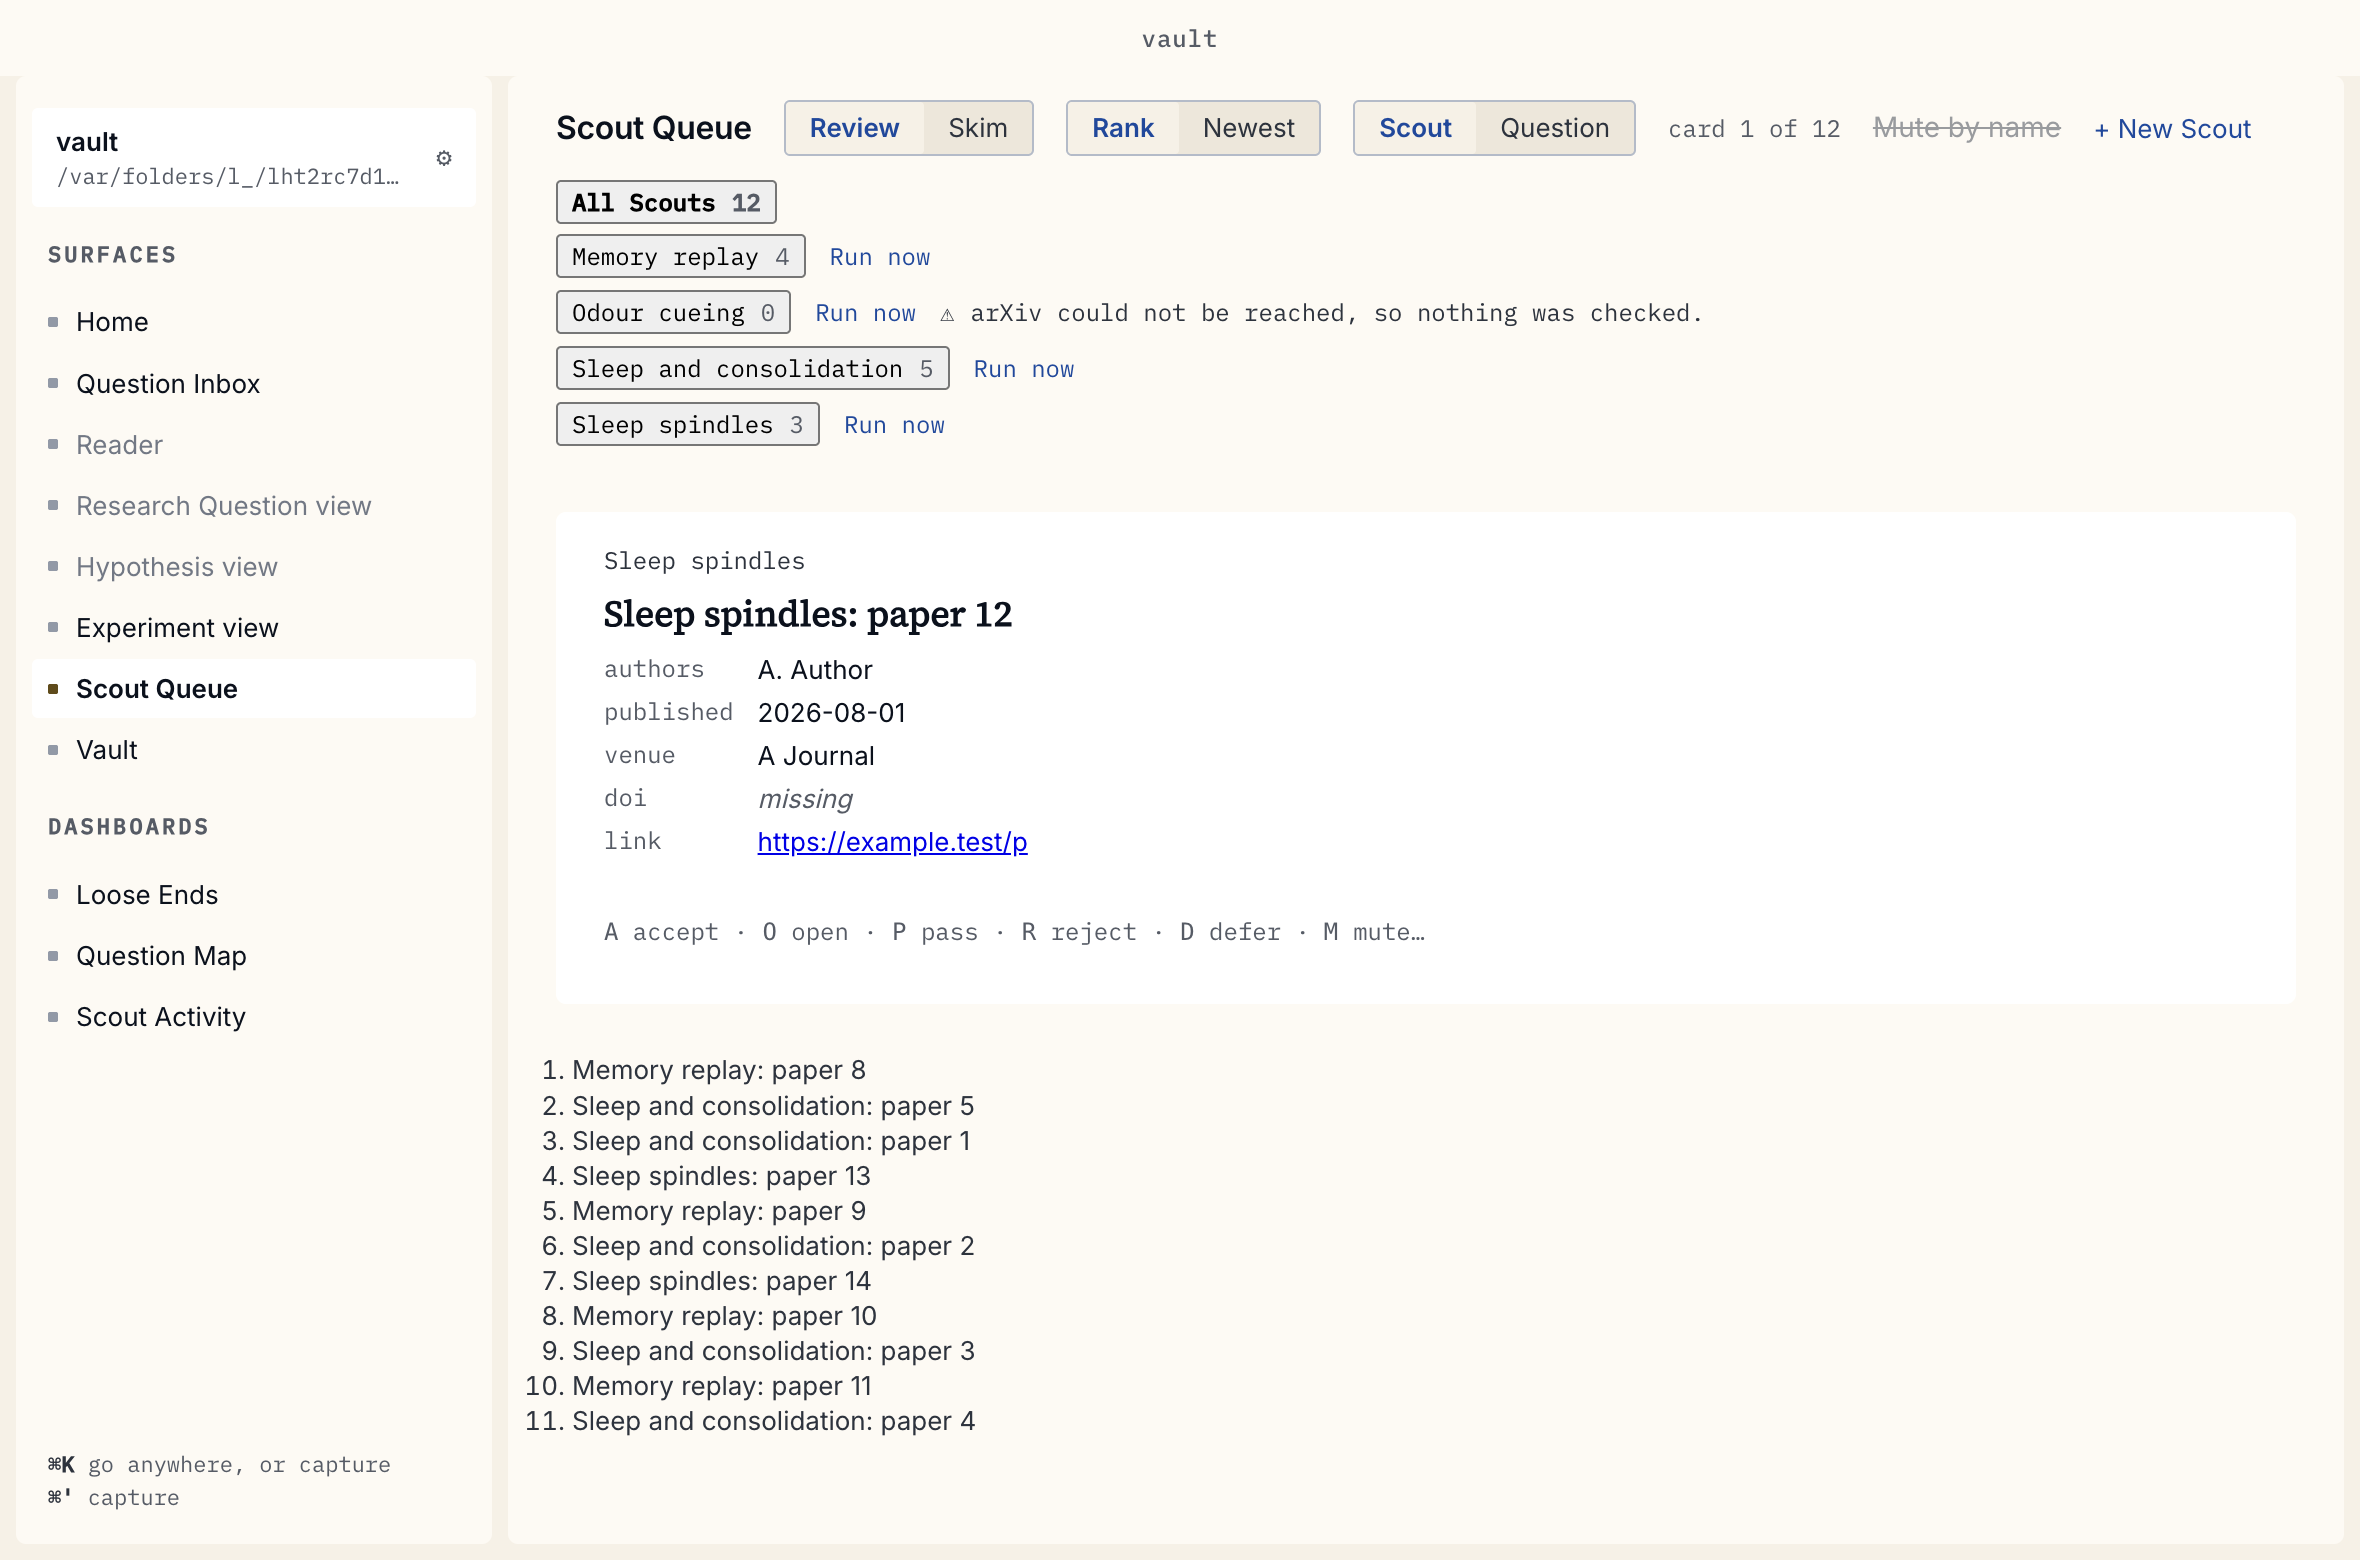
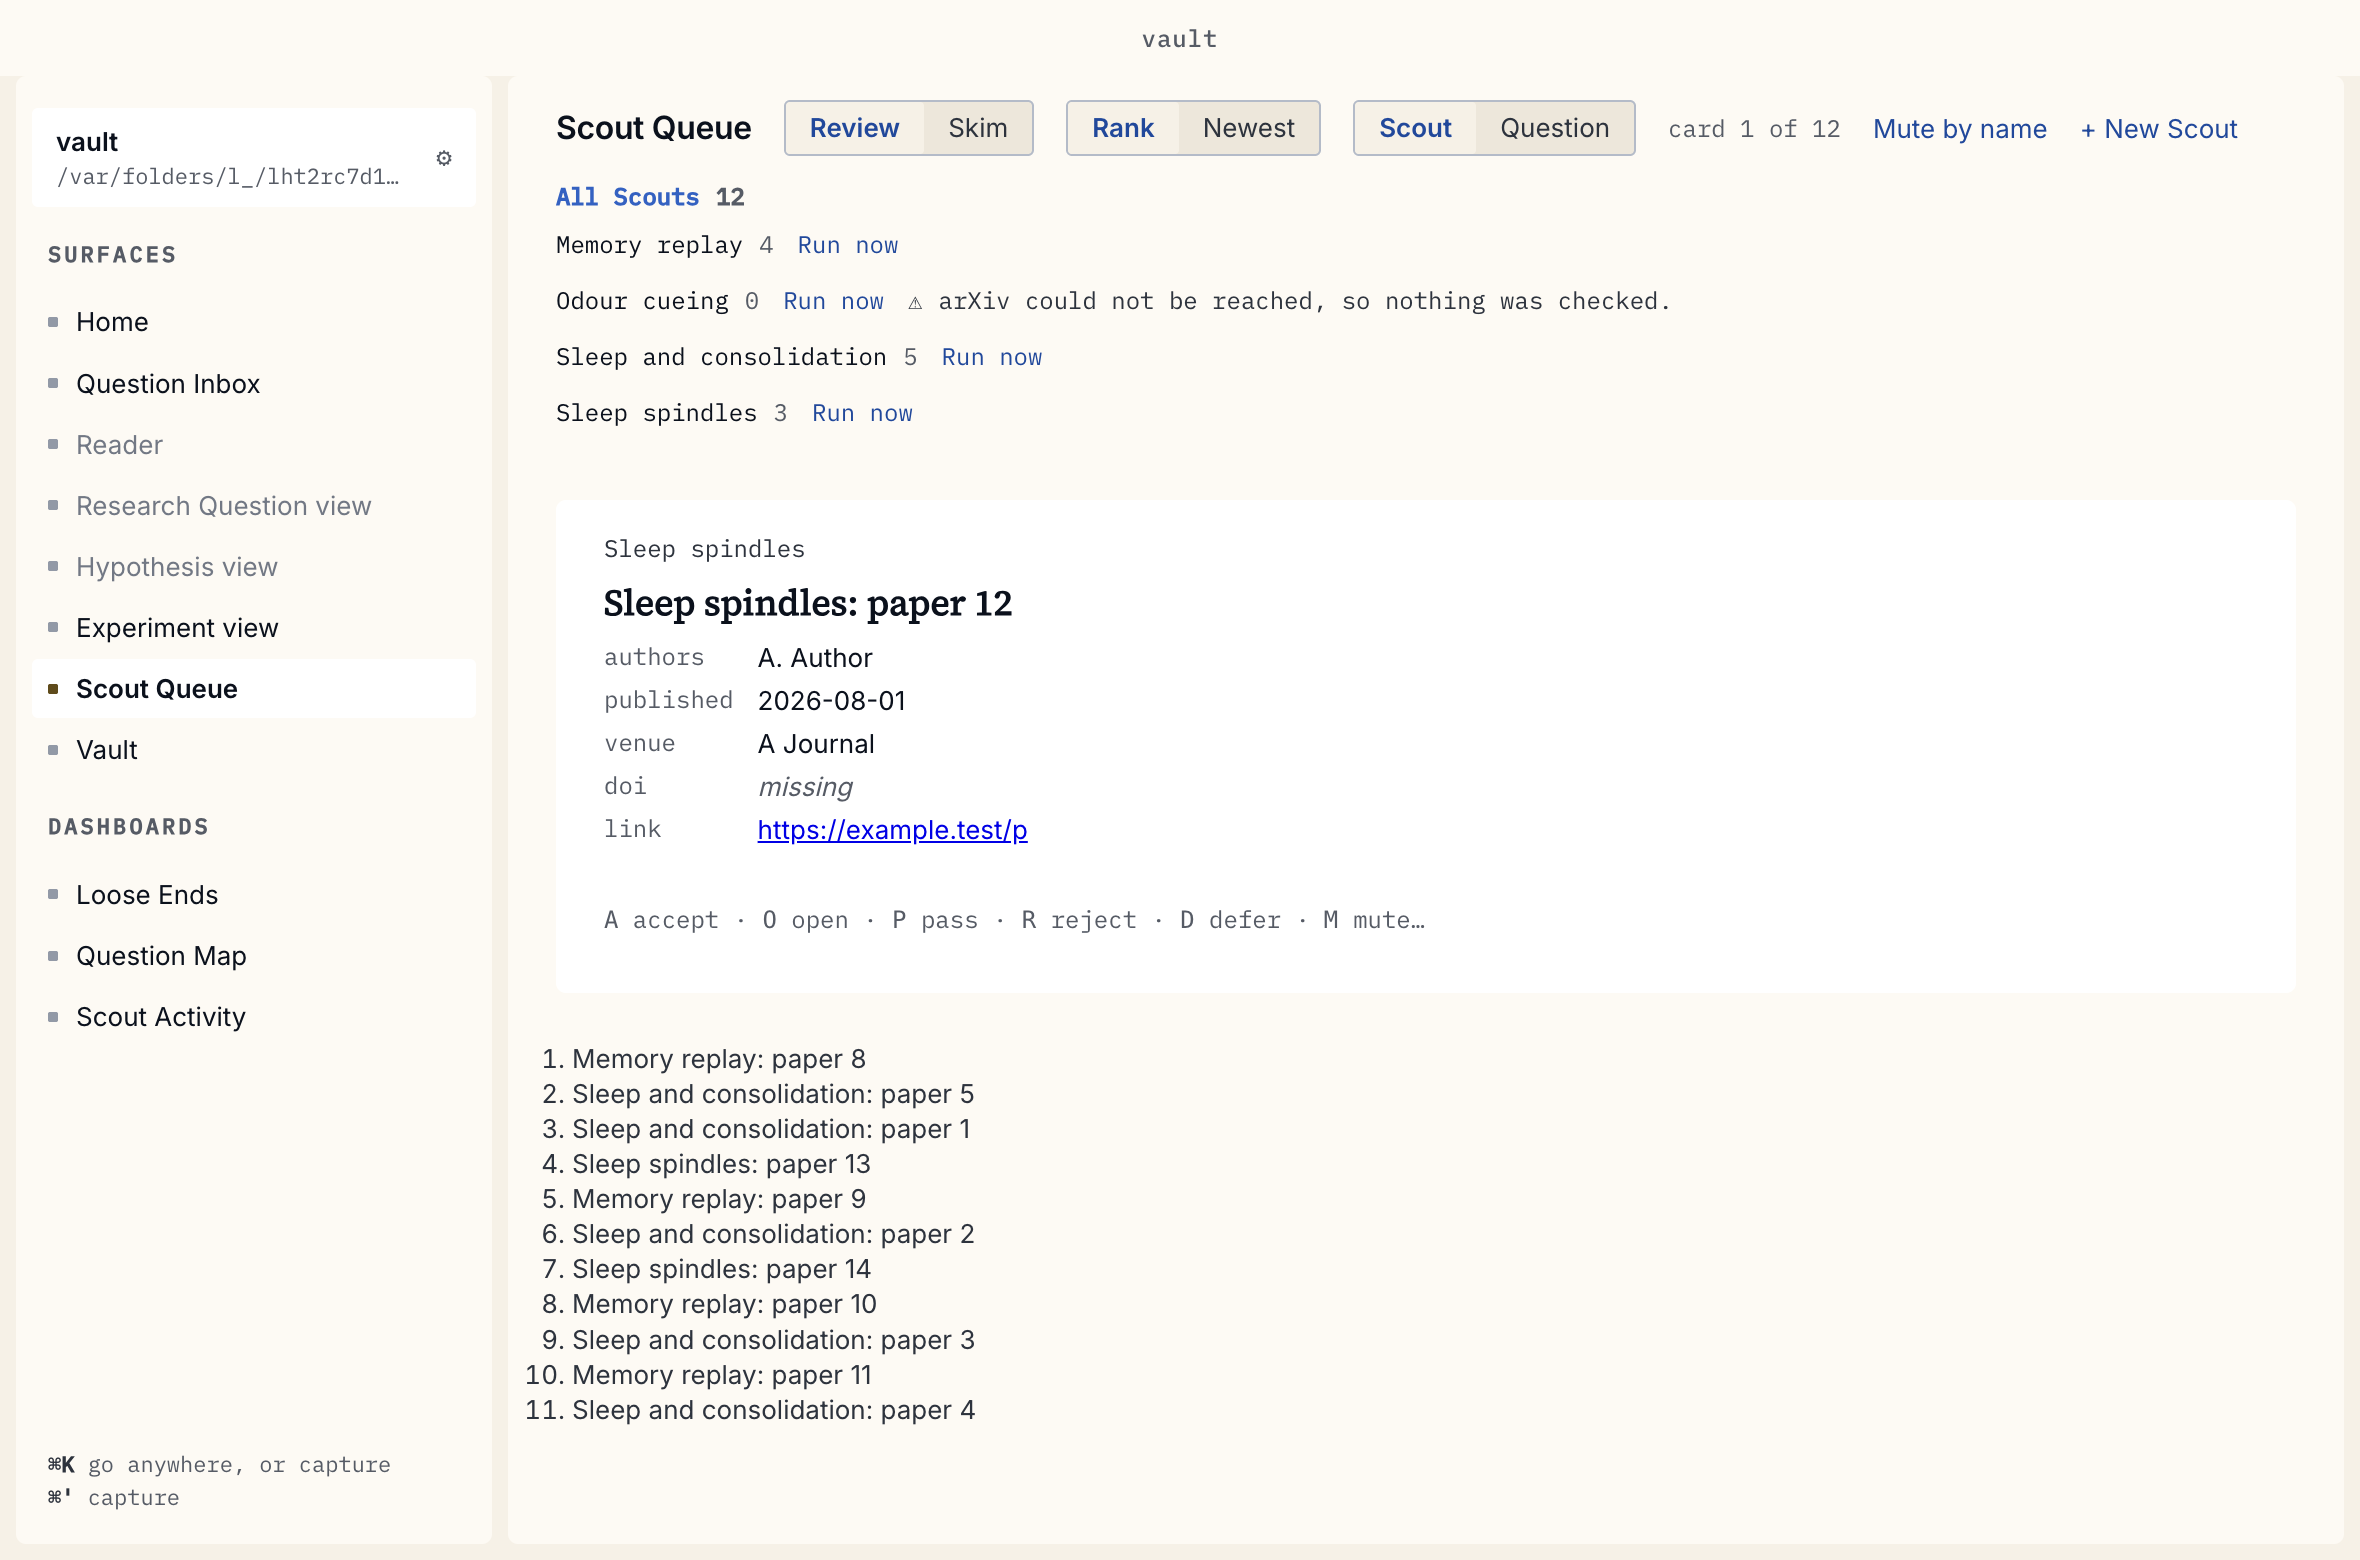
fix(ui): rail rows as text, Mute by name a disclosure, narrow First slot wraps (#793)

diff --git a/packages/renderer/src/scout-queue.mutes.test.tsx b/packages/renderer/src/scout-queue.mutes.test.tsx
@@ -494,6 +494,18 @@ describe("Mute by name (#807, ADR 0051 decision 9)", () => {
     fireEvent.click(screen.getByRole("button", { name: "Mute by name" }));
     return await screen.findByRole("group", { name: "Mute by name" });
   };
+  // A disclosure, not an on/off chip: closed must not read as struck through
+  // or switched off (the toggle tier draws aria-pressed=false that way).
+  it("is a disclosure that says whether it is open", async () => {
+    renderApp(answers({}));
+    await inHand();
+    const button = screen.getByRole("button", { name: "Mute by name" });
+    expect(button.getAttribute("aria-expanded")).toBe("false");
+    expect(button.hasAttribute("aria-pressed")).toBe(false);
+    fireEvent.click(button);
+    expect(button.getAttribute("aria-expanded")).toBe("true");
+  });
+
   const typeName = (form: HTMLElement, value: string) =>
     fireEvent.change(within(form).getByRole("textbox", { name: "Name" }), {
       target: { value },

diff --git a/packages/renderer/src/ScoutQueue.module.css b/packages/renderer/src/ScoutQueue.module.css
@@ -129,7 +129,16 @@
   color: var(--color-fg-muted);
 }
 
+/* A row that chooses is text, not a native grey box: the selection is the
+   weight and sapphire, as a segment's is (docs/architecture.md § UI conventions). */
 .railRow {
+  appearance: none;
+  border: 0;
+  padding: 0;
+  background: none;
+  font: inherit;
+  color: inherit;
+  cursor: pointer;
   display: inline-flex;
   gap: var(--space-2);
   align-items: baseline;
@@ -137,6 +146,12 @@
 
 .railRow[aria-current="true"] {
   font-weight: 600;
+  color: var(--color-primary);
+}
+
+.railRow:focus-visible {
+  outline: 2px solid var(--color-primary);
+  outline-offset: 2px;
 }
 
 .group {

diff --git a/packages/renderer/src/FirstSlot.module.css b/packages/renderer/src/FirstSlot.module.css
@@ -10,14 +10,16 @@
   min-height: 36px;
   display: flex;
   align-items: center;
-  gap: var(--space-4);
-  padding: 0 var(--space-5);
+  /* In a narrow pane the Warrant drops under the claim rather than squeezing it to a column. */
+  flex-wrap: wrap;
+  gap: 0 var(--space-4);
+  padding: var(--space-1) var(--space-5);
   border-bottom: 1px solid var(--color-line);
 }
 
 /* The claim: a sentence in the interface face, with a full stop. */
 .claim {
-  flex: 1;
+  flex: 1 1 auto;
   min-width: 0;
   font-size: var(--text-base);
   color: var(--color-fg);

diff --git a/packages/renderer/src/ScoutQueue.tsx b/packages/renderer/src/ScoutQueue.tsx
@@ -594,8 +594,7 @@ export function ScoutQueue({
           <span className={styles.count}>card 1 of {stack.length}</span>
         )}
         <Button
-          tier="toggle"
-          aria-pressed={byNameOpen}
+          aria-expanded={byNameOpen}
           onClick={() => setByNameOpen((was) => !was)}
         >
           Mute by name

diff --git a/docs/records/beat-13/README.md b/docs/records/beat-13/README.md
@@ -21,9 +21,9 @@ Sample content differs from the prototypes' (fixture vault, not the mockup's), s
 | First run (empty vault) | [![](../../reference/prototypes/12-empty-vault.png)](../../reference/prototypes/12-empty-vault.png) | [![](12-empty-vault-dark.png)](12-empty-vault-dark.png) | [![](12-empty-vault-light.png)](12-empty-vault-light.png) |
 | Settings | [![](../../reference/prototypes/13-settings.png)](../../reference/prototypes/13-settings.png) | [![](13-settings-dark.png)](13-settings-dark.png) | [![](13-settings-light.png)](13-settings-light.png) |
 
-## What the pictures show that the spec did not promise
+## What the pictures showed, and what was done
 
-Read by eye against the prototypes, not fixed here (this ticket changes no behaviour):
+The first pass of this record showed two things no ticket had promised; both are fixed in this PR and the pictures above are the second pass.
 
-- **Scout Queue rail.** The Scout chips (*All Scouts*, *Memory replay* …) are still grey boxes, and *Mute by name* is drawn struck through. They are choosers kept as plain `aria-pressed` buttons under UI conventions § What stays as it is, but they read as the grey boxed buttons the beat set out to remove. A follow-up should decide whether they become segments or plain text rows.
-- **Vault Backlinks pane.** At this width the empty-state sentence wraps into a three-line column beside the *read in full · watching* meta, so the pane looks cramped.
+- **Scout Queue rail.** The Scout chips were native grey boxes (`.railRow` had no button reset) and *Mute by name* was drawn struck through (the toggle tier's off look, on what is a disclosure). The rows are now text, the chosen one sapphire and bold, and *Mute by name* is a secondary button carrying `aria-expanded`.
+- **Vault Backlinks pane.** The empty-state sentence was squeezed to a three-line column beside its Warrant. The First slot now lets the Warrant drop under the claim when the pane is narrow.
